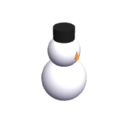
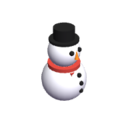
[feat] Snowier snow village and zombies you can spot: snowfall, packed-snow streets, snow on pines, snowmen with coal eyes and a scarf; zombies get a bald green head, glowing eyes and an always-on violet ring

Changed region(s): [[0.3438, 0.4375, 0.6562, 0.75], [0.375, 0.25, 0.6562, 0.4375]]

diff --git a/www/index.html b/www/index.html
@@ -114,6 +114,10 @@
   #rain { position: fixed; inset: -40px 0 0 0; pointer-events: none; z-index: 3; opacity: .55; mix-blend-mode: screen;
     background: repeating-linear-gradient(112deg, transparent 0 13px, rgba(200, 220, 255, .6) 13px 15px); background-size: 160px 160px; animation: rainfall .32s linear infinite; }
   @keyframes rainfall { to { background-position: -60px 150px; } }
+  #snow { position: fixed; inset: -60px 0 0 0; pointer-events: none; z-index: 3; opacity: .8;
+    background-image: radial-gradient(circle, rgba(255,255,255,.95) 0 1.6px, transparent 2.4px), radial-gradient(circle, rgba(255,255,255,.7) 0 1.1px, transparent 1.8px);
+    background-size: 90px 90px, 57px 57px; background-position: 0 0, 30px 20px; animation: snowfall 7s linear infinite; }
+  @keyframes snowfall { to { background-position: 24px 630px, -18px 399px; } }
   /* state particles at the body (always mid-screen): green smoke while poisoned, cyan glints while fast */
   #burst i.smoke { border-radius: 50%; filter: blur(1px); animation: smoke 1.1s ease-out forwards; }
   @keyframes smoke { 0% { transform: translate(0, 0) scale(.6); opacity: .7; } 100% { transform: translate(var(--dx), var(--dy)) scale(1.7); opacity: 0; } }
@@ -407,6 +411,7 @@
 <canvas id="c"></canvas>
 <div id="vignette" class="hidden"></div>
 <div id="rain" class="hidden"></div>
+<div id="snow" class="hidden"></div>
 <div id="no3d" class="overlay hidden">
   <p class="big">이 브라우저에서는 3D 화면을 켤 수 없어요.</p>
   <p>브라우저의 그래픽 가속(WebGL)이 꺼져 있거나 그래픽 드라이버가 막혀 있어요.</p>
@@ -629,7 +634,7 @@
   // ---------- world ----------
   const TYPES = {
     cat:       { r: 4,  color: '#e8a25a' },
-    zombie:    { r: 5,  color: '#6b5b7a', bad: true, slow: 2 }, // on every map (ZOMBIES of them); swallowing one chills you: slow for `slow` s, no growth, no points
+    zombie:    { r: 6,  color: '#7d5fb8', bad: true, slow: 2 }, // on every map (ZOMBIES of them); swallowing one chills you: slow for `slow` s, no growth, no points
     gull:      { r: 4,  color: '#f7f7f2' },
     person:    { r: 5,  color: '#5b8def' },
     worker:    { r: 5,  color: '#ff8a3d' },
@@ -1198,6 +1203,7 @@
     elapsed = 0; score = 0; bannerUntil = 0; eclipse = false; continued = false; nextGold = 4; rush = false; rushTick = 0; Sound.music.rush(false); bonus = null;
     lastEat = 0; hunger = null; hungerTick = 0; starving = false; starveT = 0; endedBy = null; combo = 0; comboUntil = 0; slowUntil = 0;
     mapEvent = null; eventDone = false; runners = []; $('rain').classList.add('hidden');
+    $('snow').classList.toggle('hidden', !(stage.look && stage.look.snow)); // it snows all run on winter maps
     shards = []; nextShard = C.SHARD.from; lastShardKind = null; fastUntil = bubbleUntil = magnetUntil = 0; dashTick = 0;
     clouds = stage.twist === 'clouds' ? Array.from({ length: 7 }, (_, k) => ({ x: rnd() * WORLD, y: rnd() * waterY, r: 70 + rnd() * 50 })) : [];
     tut = list === STAGES && i === 0 ? { i: 0, t: 0, moved: 0, lx: null, ly: null } : null;
@@ -1514,7 +1520,8 @@
     for (const o of objects) {
       if (o.state !== 0 || o.r >= player.r * C.EAT_RATIO) continue;
       if (Math.hypot(o.x - player.x, o.y - player.y) > 260 + player.r) continue;
-      if (isShaded(o, o) || o.goldUntil > elapsed) hints.push({ x: o.x, y: o.y, r: o.r + 2, bad: !!TYPES[o.type].bad }); // violet ring: edible but bad
+      if (TYPES[o.type].bad) { hints.push({ x: o.x, y: o.y, r: o.r + 3, bad: true }); continue; } // violet ring under every zombie, shade or sun: the tell
+      if (isShaded(o, o) || o.goldUntil > elapsed) hints.push({ x: o.x, y: o.y, r: o.r + 2 });
     }
     for (const g of guards) {
       if (g.state === 0 && g.r < player.r * C.EAT_RATIO && isShaded(g, g)) hints.push({ x: g.x, y: g.y, r: g.r + 3 });
@@ -1877,7 +1884,7 @@
   }
 
   function openSelect() {
-    state = 'menu';
+    state = 'menu'; $('snow').classList.add('hidden'); // the snowfall is part of the world, not of the menus
     const live = liveEvents();
     if (listKey !== 'main' && !live.some(ev => ev.id === listKey)) { useList('main'); selected = lastUnlocked(); page = Math.floor(selected / pageSize()); }
     const ev = EVENTS.find(e => e.id === listKey);
@@ -1990,7 +1997,7 @@
   }
 
   function offerContinue(got) {
-    state = 'cont';
+    state = 'cont'; $('snow').classList.add('hidden');
     const n = got.filter(Boolean).length;
     $('cont-why').textContent = endedBy === 'hunger' ? '너무 오래 굶어서 집에 갔어요. 뭐든 계속 삼켜야 해요!'
       : stage.hard === 'super' ? '거대 등불지기를 삼켜야 깰 수 있어요.'
@@ -2008,10 +2015,11 @@
     continued = true;
     runDuration += CONTINUE_S; rush = false; Sound.music.rush(false);
     lastEat = elapsed; starving = false; starveT = 0; endedBy = null; // a fresh stomach for the extra time
-    state = 'play'; show(null);
+    state = 'play'; show(null); $('snow').classList.toggle('hidden', !(stage.look && stage.look.snow));
   }
 
   function endRun(got) {
+    $('snow').classList.add('hidden'); $('rain').classList.add('hidden');
     state = 'end';
     const cleared = C.isCleared(stage, got);
     const n = cleared ? got.filter(Boolean).length : 0; // an uncleared hard level keeps no stars

diff --git a/www/render3d.js b/www/render3d.js
@@ -40,8 +40,10 @@
     person:    [P('capsule', [0.55, 0.5, 0.55], 1.0, 'inst'), P('sphere', [0.55, 0.55, 0.55], 2.45, SKIN), P('sphere', [0.58, 0.32, 0.58], 2.7, HAIR)],
     worker:    [P('capsule', [0.55, 0.5, 0.55], 1.0, 'inst'), P('sphere', [0.55, 0.55, 0.55], 2.45, SKIN), P('sphere', [0.62, 0.36, 0.62], 2.72, '#f2c14e')],
     // a zombie: green skin, dark hair, torn clothes in the instance color, both arms out in front (forward is +x)
-    zombie:    [P('capsule', [0.55, 0.5, 0.55], 1.0, 'inst'), P('sphere', [0.55, 0.55, 0.55], 2.45, '#9bd38a'), P('sphere', [0.58, 0.32, 0.58], 2.7, '#3a4a2a'),
-                P('box', [0.9, 0.22, 0.22], 1.9, '#9bd38a', [0.6, 0.35]), P('box', [0.9, 0.22, 0.22], 1.9, '#9bd38a', [0.6, -0.35])],
+    // (TestFlight: "hard to tell apart in a crowd") so the skin is a louder green, the eyes glow and never dim at night
+    zombie:    [P('capsule', [0.55, 0.5, 0.55], 1.0, 'inst'), P('sphere', [0.55, 0.55, 0.55], 2.45, '#8fe07a'), P('sphere', [0.3, 0.2, 0.34], 2.88, '#2a3a1e', [-0.12, 0]), // a bald green head with a tuft, so it reads green from above
+                P('box', [0.9, 0.22, 0.22], 1.9, '#8fe07a', [0.6, 0.35]), P('box', [0.9, 0.22, 0.22], 1.9, '#8fe07a', [0.6, -0.35]),
+                P('sphere', [0.13, 0.13, 0.13], 2.5, '#eaff5c', [0.48, 0.2], true), P('sphere', [0.13, 0.13, 0.13], 2.5, '#eaff5c', [0.48, -0.2], true)],
     cat:       [P('blob', [1.1, 0.6, 0.6], 0.6, 'inst'), P('sphere', [0.5, 0.48, 0.5], 1.05, 'inst', [1.0, 0]),
                 P('cone', [0.17, 0.4, 0.17], 1.55, 'inst', [1.05, 0.26]), P('cone', [0.17, 0.4, 0.17], 1.55, 'inst', [1.05, -0.26]),
                 P('cyl', [0.12, 1.0, 0.12], 1.0, 'inst', [-1.1, 0])],
@@ -76,12 +78,17 @@
     // snow village
     skier:     [P('box', [0.2, 0.08, 2.4], 0.05, '#2b3550'), P('capsule', [0.55, 0.5, 0.55], 1.0, 'inst'), P('sphere', [0.55, 0.55, 0.55], 2.45, SKIN),
                 P('sphere', [0.6, 0.36, 0.6], 2.72, '#f7f9fc')],
+    // a snowman is white on white snow, so what makes it read is the dark bits: hat, coal eyes and buttons, a red scarf
     snowman:   [P('sphere', [0.8, 0.8, 0.8], 0.8, 'inst'), P('sphere', [0.55, 0.55, 0.55], 1.9, 'inst'), P('cyl', [0.35, 0.4, 0.35], 2.55, '#222222'),
-                P('cone', [0.08, 0.3, 0.08], 1.95, '#f28c28', [0.55, 0])],
+                P('cone', [0.08, 0.3, 0.08], 1.95, '#f28c28', [0.55, 0]), P('cyl', [0.5, 0.08, 0.5], 2.33, '#222222'),
+                P('sphere', [0.08, 0.08, 0.08], 2.05, '#222222', [0.5, 0.18]), P('sphere', [0.08, 0.08, 0.08], 2.05, '#222222', [0.5, -0.18]),
+                P('sphere', [0.08, 0.08, 0.08], 0.65, '#222222', [0.78, 0]), P('sphere', [0.08, 0.08, 0.08], 0.95, '#222222', [0.78, 0]), P('sphere', [0.08, 0.08, 0.08], 1.22, '#222222', [0.68, 0]),
+                P('cyl', [0.56, 0.16, 0.56], 1.42, '#d3473d'), P('box', [0.16, 0.5, 0.14], 1.1, '#d3473d', [0.5, 0.2])],
     sled:      [P('box', [1.8, 0.2, 0.9], 0.35, 'inst'), P('box', [1.9, 0.08, 0.1], 0.08, '#555555', [0, 0.38]), P('box', [1.9, 0.08, 0.1], 0.08, '#555555', [0, -0.38])],
     fence:     [P('box', [2.0, 0.85, 0.42], 0.42, 'inst'), P('box', [2.12, 0.18, 0.62], 0.93, '#5a5e6a')], // a 16-unit span of courtyard wall with a tile cap
+    // (winter maps only) snow sits on the branch tips: a white skirt around the foot of each tier, and the cap
     pine:      [P('cyl', [0.2, 0.9, 0.2], 0.45, '#7a5233'), P('cone', [1.0, 1.8, 1.0], 1.7, 'inst'), P('cone', [0.72, 1.3, 0.72], 2.6, 'inst'),
-                P('cone', [0.4, 0.55, 0.4], 3.3, '#f7f9fc')],
+                P('cone', [0.4, 0.55, 0.4], 3.3, '#f7f9fc'), P('cone', [1.04, 0.5, 1.04], 1.06, '#f7f9fc'), P('cone', [0.76, 0.4, 0.76], 2.16, '#f7f9fc')],
     // oasis, hanok, campus
     parasol:   [P('cyl', [0.05, 1.8, 0.05], 0.9, '#dddddd'), P('cone', [1.1, 0.4, 1.1], 1.9, 'inst'), P('cyl', [0.5, 0.06, 0.5], 0.75, '#f4f1ea')],
     planter:   [P('box', [1.4, 0.8, 1.4], 0.4, 'inst'), P('blob', [0.8, 0.5, 0.8], 1.0, '#4f9b4f'), P('sphere', [0.25, 0.25, 0.25], 1.3, '#ff7aa8', [0.35, 0.2]),
@@ -457,9 +464,10 @@
         group.add(quay);
       }
 
-      const alley = !!stage.alley; // earthen lanes: no lane paint, no crosswalks, low stone edges
+      const alley = !!stage.alley, snowy = !!(stage.look && stage.look.snow); // earthen lanes: no lane paint, no crosswalks, low stone edges
       // Day colors of the street (the frame loop restores them after night): a cool mid gray so paint and curbs pop.
-      w.roadDay = alley ? '#cdb892' : '#9a96a4'; w.curbDay = alley ? '#b8aa90' : '#e6e0d4';
+      // on a snow map the streets are packed snow, not bare asphalt (TestFlight: "too little snow")
+      w.roadDay = alley ? '#cdb892' : snowy ? '#d9e0e9' : '#9a96a4'; w.curbDay = alley ? '#b8aa90' : snowy ? '#f6f8fb' : '#e6e0d4';
       w.roadMat = lambert(w.roadDay);
       for (let k = 0; k <= WORLD / CELL; k++) {
         const v = new T.Mesh(unit.box, w.roadMat);

diff --git a/test/e2e/qa.e2e.py b/test/e2e/qa.e2e.py
@@ -292,8 +292,12 @@ with sync_playwright() as p:
     b, pg, errs = page(p)
     # sample times are 3/4 of the old 120-second marks, so they land at the same point of today's 90-second day
     for si, sec in [(0, 9), (0, 41), (0, 71), (HARB, 22), (HARB, 71), (CITY, 37), (SNOW, 22), (SNOW, 52), (DESERT, 22), (FARM, 37)]:
-      for attempt in range(3):  # a random map with no shadow in view (the farm has few buildings) proves nothing: roll another
-        pg.evaluate(f'{A}.start({si}); {A}.skipTo({sec})'); frames_wait(pg, 2); pg.evaluate(f'{A}.freeze()'); frames_wait(pg, 2)
+      t = sec
+      for attempt in range(5):  # a random map with no shadow in view (the farm has few buildings) proves nothing: roll another;
+        # at noon on a scarce map even three rolls can come up empty (shade hides under the trees' own exclusion radius), so
+        # the last two rolls move to the afternoon, where the same map throws long shadows
+        t = sec if attempt < 3 else min(sec + 30, 71)
+        pg.evaluate(f'{A}.start({si}); {A}.skipTo({t})'); frames_wait(pg, 2); pg.evaluate(f'{A}.freeze()'); frames_wait(pg, 2)
         pts = pg.evaluate('''(() => {
           const A = window.__DUSK_TEST__.api, C = window.DuskCore, s = A.s, T = window.THREE;
           const { camera, scene } = A.R.debug;
@@ -332,7 +336,7 @@ with sync_playwright() as p:
           }
           return out;
         })()''')
-        shot = out / f'pix-{si}-{sec}.png'; pg.screenshot(path=str(shot))
+        shot = out / f'pix-{si}-{t}.png'; pg.screenshot(path=str(shot))
         img = Image.open(shot).convert('L'); W, H = img.size; k = W / 390
         by = {}
         raw = [(img.getpixel((int(sx * k), int(sy * k))), v, kind, ib, ed) for sx, sy, v, kind, ib, ed in pts]
@@ -346,12 +350,12 @@ with sync_playwright() as p:
             det.append(f'{kind[:5]} lit~{statistics.median(lit):.0f} shade~{statistics.median(sha):.0f} n={len(arr)}')
         rate = agree / total if total else 0
         if total >= 60: break
-        print(f'   S9 stage{si} t={sec}s: only {total} usable points (no shadow in view?), rolling another map')
+        print(f'   S9 stage{si} t={t}s: only {total} usable points (no shadow in view?), rolling another map')
       if True:  # scored on the last roll
         thr = {kd: (statistics.median([l for l, v in a if not v] or [0]) + statistics.median([l for l, v in a if v] or [0])) / 2 for kd, a in by.items()}
         bad = [(v, ib, ed) for l, v, kd, ib, ed in raw if (l < thr[kd]) != v]
         print('   mismatches:', len(bad), '| rule-shade-but-bright', sum(1 for v, ib, ed in bad if v), '| rule-lit-but-dark', sum(1 for v, ib, ed in bad if not v),
               '| in-beam', sum(1 for b in bad if b[1]), '| edge-dist', sorted(b[2] for b in bad))
-        rec('S9', f'shadow pixels match rule stage{si} t={sec}s', rate >= 0.97, f'{rate*100:.1f}% of {total} pts; ' + ' | '.join(det))
+        rec('S9', f'shadow pixels match rule stage{si} t={t}s', rate >= 0.97, f'{rate*100:.1f}% of {total} pts; ' + ' | '.join(det))
     b.close()
 print('SUMMARY', sum(r[2] for r in res), '/', len(res))
